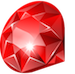
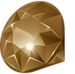
Worked on intro scene called dream, still needs some work, some refactoring, some styling.

diff --git a/public/rubyquest.js b/public/rubyquest.js
@@ -1,6 +1,7 @@
 RubyQuest.rubyquest = function(game) {
 	this.hero;
 	this.ed;
+	this.jo;
 	this.monster;
 	this.cursors;
 	this.mainmap;
@@ -16,7 +17,7 @@ RubyQuest.rubyquest.prototype = {
 	init: function(hero) {
 		// there will be an opening scene state
 		// where the hero will be created and passed to
-		// the next scene 
+		// the next scene
 	},
 
 	create: function() {
@@ -24,6 +25,8 @@ RubyQuest.rubyquest.prototype = {
 		this.physics.startSystem(Phaser.Physics.ARCADE);
 		mainmap = this.add.sprite(0, 0, 'map');
 		monster = this.add.sprite(330, 630, 'monster');
+
+		jo = this.add.sprite(450, 700, 'cat');
 
 		ed = this.add.sprite(500, 780, 'ed'); // make 166, 2020 after debug
 		ed.lines = ["Hello, I can see you are beginning a journey...", "...a journey that will take you to many dark places.",
@@ -48,7 +51,7 @@ RubyQuest.rubyquest.prototype = {
 		hero.animations.add('walkdown', [18,19,20,21,22,23,24,25,26]);
 		hero.animations.add('walkright', [27,28,29,30,31,32,33,34,35]);
 
-		this.physics.arcade.enable([hero, monster, ed]);
+		this.physics.arcade.enable([hero, monster, ed, jo]);
 
 		cursors = this.input.keyboard.createCursorKeys();
 		menuKey = this.input.keyboard.addKey(Phaser.Keyboard.M);
@@ -61,6 +64,7 @@ RubyQuest.rubyquest.prototype = {
 		this.camera.follow(hero, Phaser.Camera.FOLLOW_TOPDOWN);
 		monster.body.immovable = true;
 		ed.body.immovable = true;
+		jo.body.immovable = true;
 		hero.body.collideWorldBounds = true;
 
 	},
@@ -68,6 +72,7 @@ RubyQuest.rubyquest.prototype = {
 	update: function() {
 		this.physics.arcade.collide(hero, monster, this.startFight, null, this);
 		this.physics.arcade.collide(hero, ed, null, null, this);
+		this.physics.arcade.collide(hero, jo, null, null, this);
 
 		hero.body.velocity.x = 0;
 		hero.body.velocity.y = 0;
@@ -119,7 +124,7 @@ RubyQuest.rubyquest.prototype = {
 			// this is where the dialogue cycle goes
 			this.currently_talking = true;
 			// set dialogue line to 0 (fist line)
-			currentLine = 0;			
+			currentLine = 0;
 			// bring up the dialogue box
 			$('#dialogue').toggle().css({'position':'absolute','top':$('canvas').offset().top+20+-'px','left':$('canvas').offset().left+20+'px'});
 			// on interact key down, bring up next line in dialogue array
@@ -133,9 +138,9 @@ RubyQuest.rubyquest.prototype = {
 			}
 			// on interact key down, bring up next line in dialogue array
 			$('#dialogue').text(ed.lines[currentLine]);
-			
+
 		}
-		
+
 	},
 
 		// pauses the game

diff --git a/public/Preloader.js b/public/Preloader.js
@@ -13,6 +13,7 @@ RubyQuest.Preloader.prototype = {
 		this.add.text(this.world.centerX-50, this.world.centerY+40, "loading...", { font: "35px Arial", fill: "#fff", align: "center" });
 		this.load.image('map', 'assets/rqmap.png');
 		this.load.spritesheet('hero', 'assets/walk.png', 63, 62);
+		this.load.spritesheet('herobw', 'assets/walkbw.png', 63, 62);
 		this.load.spritesheet('herofight', 'assets/herofight.png', 190, 104);
 		this.load.image('monster', 'assets/monster.png');
 		this.load.image('battlebg', 'assets/battlebackground.png');
@@ -24,6 +25,7 @@ RubyQuest.Preloader.prototype = {
 		this.load.image('yellow_bar', 'assets/green_bar.png');
 		this.load.image('ruby', 'assets/ruby.png');
 		this.load.image('rubyshard', 'assets/dreamparticle.png');
+		this.load.image('cat', 'assets/cat.png');
 		},
 
 		create: function() {

diff --git a/public/Fight.js b/public/Fight.js
@@ -17,7 +17,7 @@ RubyQuest.Fight = function(game) {
 RubyQuest.Fight.prototype = {
 
 	init: function(hero, monster) {
-		
+
 	},
 
 	create: function() {
@@ -36,7 +36,7 @@ RubyQuest.Fight.prototype = {
 		runButton.width = 120;
 		runButton.height = 30;
 
-		txtStyle = { font: "20px Eletrolize", fill: "#fff", align: "center" };
+		txtStyle = { font: "20px Arial", fill: "#fff", align: "center" };
 		attacktxt = this.add.text(365, 373, 'Attack', txtStyle);
 		runtxt = this.add.text(365, 423, 'Run', txtStyle);
 

diff --git a/public/Dream.js b/public/Dream.js
@@ -14,7 +14,7 @@ RubyQuest.Dream.prototype = {
 		ruby = this.add.sprite(320, 100, 'ruby');
 		ruby.anchor.setTo(0.5, 0.5);
 
-		hero = this.add.sprite(320, 300, 'hero');
+		hero = this.add.sprite(320, 300, 'herobw');
 		hero.stats = {
 		name: "Wynn",
 		maxHp: 200,
@@ -62,7 +62,6 @@ RubyQuest.Dream.prototype = {
 			} else {
 				hero.animations.stop(null, true);
 			};
-		// this.shatterRuby;
 	},
 
 	interact: function() {

diff --git a/index.html b/index.html
@@ -18,7 +18,7 @@
 	<script src="Fight.js"></script>
 
 	<link rel="stylesheet" type="text/css" href="stylesheet.css">
-	
+
 </head>
 
 <body>
@@ -30,10 +30,11 @@
 		<p id="nameMenu"></p>
 		<p id="hpMenu"></p>
 	</div>
+	<div id="teachings" hidden="true">
+	</div>
 	<div id="dialogue" hidden="true">
 	</div>
 	<div id="input">
-
 	</div>
 	<div id="rubyquest"></div>
 	<script type="text/javascript">

diff --git a/public/stylesheet.css b/public/stylesheet.css
@@ -29,7 +29,16 @@ canvas {
 	width:480px;
 	height: 640px;
 	position: absolute;
-	left: 250px;			
+	left: 250px;
+	color: #fff;
+	font-family: Arial;
+}
+
+#teachings {
+	width:480px;
+	height: 640px;
+	position: absolute;
+	left: 250px;
 	color: #fff;
 	font-family: Arial;
 }
